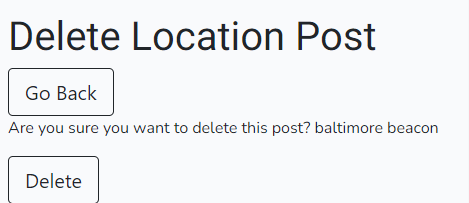
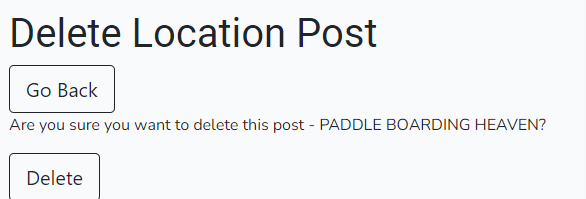
changed text in delete page

diff --git a/static/css/style.css b/static/css/style.css
@@ -44,7 +44,9 @@ a.nav-link.active {
     background-color: #042960;
     color: white;
 }
+
 /* Landing page */
+
 .hero-image {
     width: 100%;
     height: 50vh;
@@ -59,6 +61,7 @@ a.nav-link.active {
 .hero-container {
     padding: 0;
 }
+
 .hero-overlay {
     align-content: center;
 }
@@ -143,7 +146,6 @@ a.nav-link.active {
     background-color: #4896e5;
 }
 
-
 .detail-img {
     width: 100%;
 }
@@ -168,6 +170,11 @@ a.nav-link.active {
     background: transparent;
     padding: 0;
 }
+
+.delete-name {
+    text-transform: uppercase;
+}
+
 /* media query for less than 300px */
 @media screen and (max-width: 300px) {
     .hero-text p {

diff --git a/templates/post_delete.html b/templates/post_delete.html
@@ -10,7 +10,7 @@
             <form method="POST">
                 
                 {% csrf_token %} 
-                <p>Are you sure you want to delete this post? {{ post.title }}</p>
+                <p>Are you sure you want to delete this post - <span class="delete-name">{{ post.title }}</span>?</p>
                 <input type="submit" value="Delete" class="btn btn-lg btn-outline-dark">
             </form>
         </div>

diff --git a/README.md b/README.md
@@ -204,7 +204,7 @@ The user is asked are they sure they want to logout and then they can click the 
 ### Home Page
 
 
-The home page consists of a hero image of a beautiful landscape, with the hero text of Location, Location, Location. Share your favourite places. Find new places. Underneath is a button to redirect to the posts page.
+The home page consists of a hero image of a beautiful landscape, with the hero text of Location, Location, Location. Share your favourite places. Find new places. Underneath is a button to redirect to the posts page. I changed the hero image to be a webp format to improve performance loading the page.
 
 ![hero image](/documentation/images/hero_image.png)
 
@@ -885,6 +885,7 @@ I search for my repo,
 Then scroll down and deploy branch.
 I watched the build to check it was successful and
 then opened the app.
+I have included a env.sample file which is a copy of my env.py file without the secret information.  This is to show what secret keys are required.
 
 When I had completed my testing in development, in the settings.py file I set DEBUG = False and added X_FRAME_OPTION = 'SAMEORIGIN'.
 I git add ., then git commit and git push.
@@ -934,7 +935,7 @@ By forking the GitHub Repository you will be able to make a copy of the original
 - I used bootstrap links from 'I think therefore I blog'.
 - I used 'I think therefore I blog' for the bases of my footer.
 - I used the stock picture from wallpapersafari.com.
-
+- I got the post pictures from - destimap.com, alany.com, istockphoto, coldwellbankercork.ie, discoverireland.ie, dreamtime.com, facebook.com, oceandivers.com, cork-guide.ie, eoceanic.com and mountainviews.ie
 
 
 ## Acknowledgements
